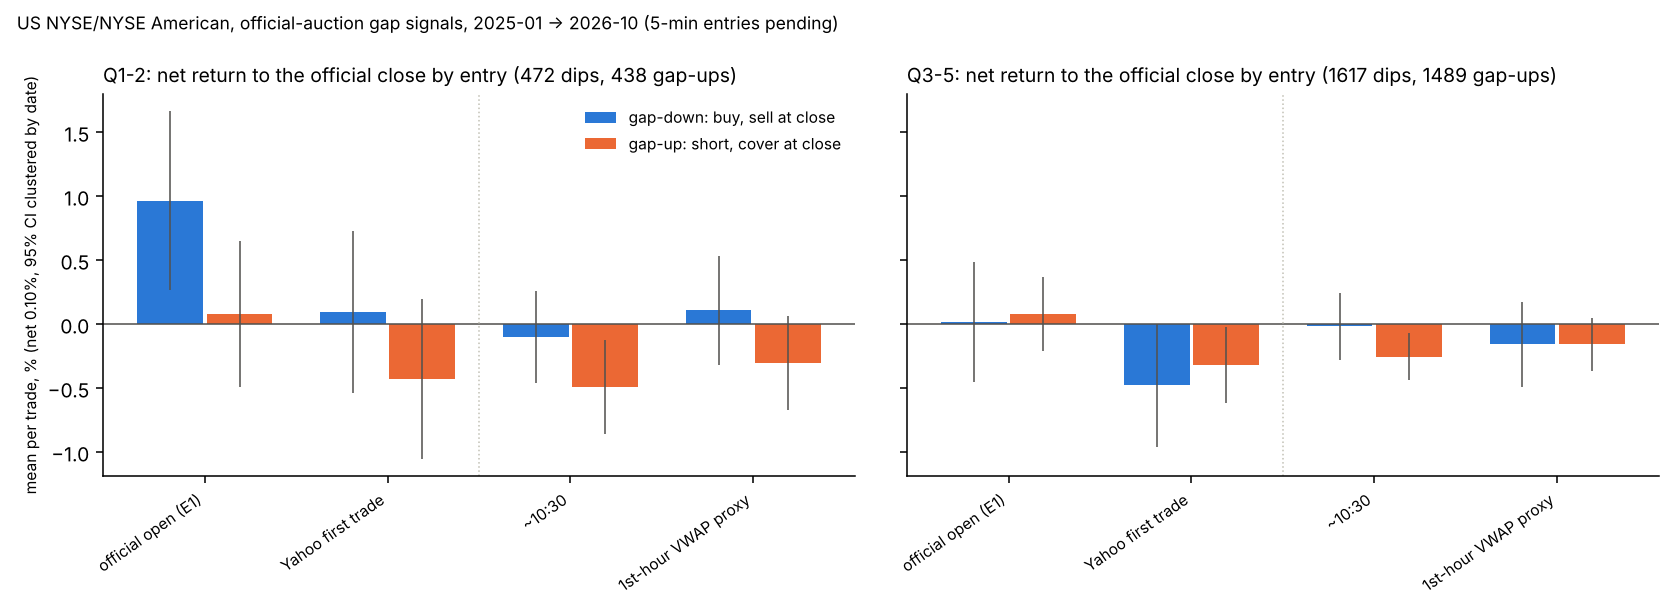
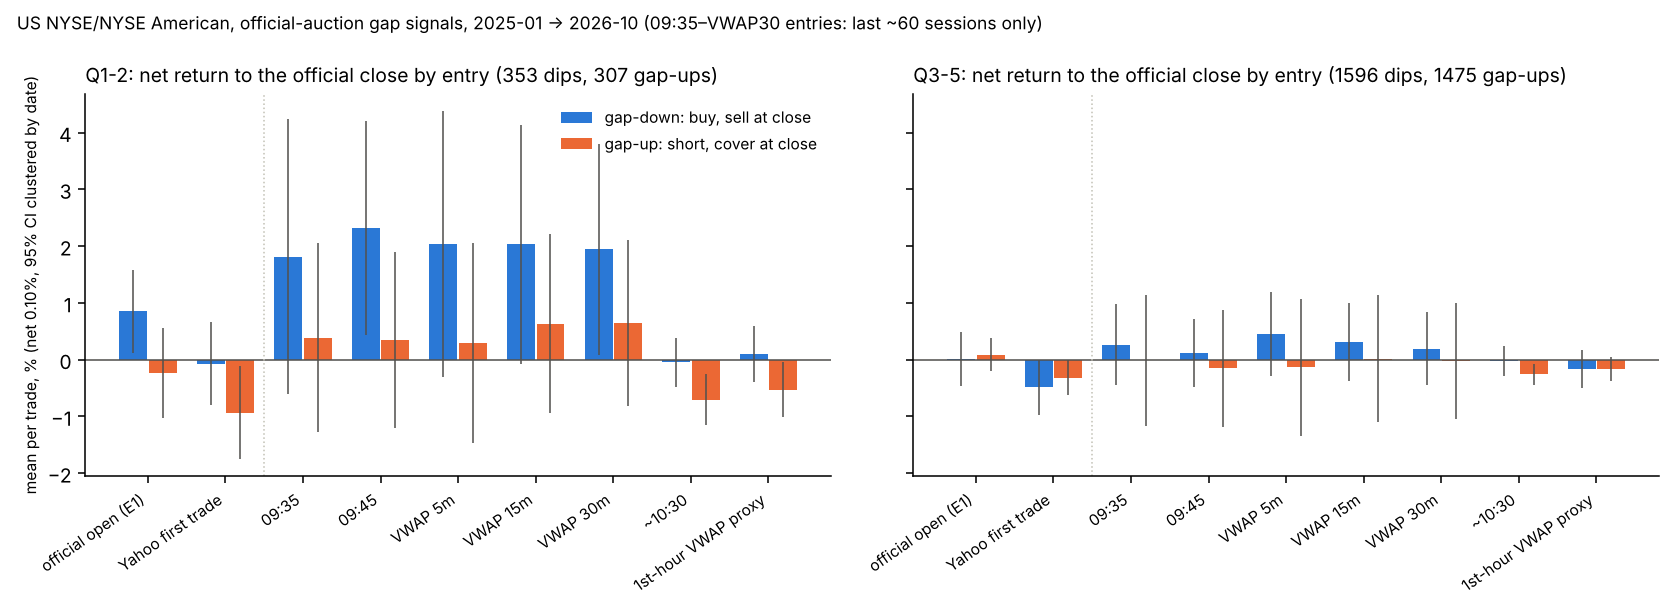
dipbuy: intraday entry test rerun with 5-minute entries (09:35, 09:45, VWAP 5/15/30)
Claude-Session: https://claude.ai/code/session_01S1P9e6W7AimuhaWQLPvxY3

diff --git a/experiments/run_dipbuy_intraday.py b/experiments/run_dipbuy_intraday.py
@@ -98,5 +98,5 @@ for ax, liq in zip(axes, ("Q1-2", "Q3-5")):
         ax.spines[sp].set_visible(False)
 axes[0].set_ylabel("mean per trade, % (net 0.10%, 95% CI clustered by date)", fontsize=8)
 axes[0].legend(frameon=False, fontsize=8)
-fig.suptitle(f"US NYSE/NYSE American, official-auction gap signals, {START[:7]} → 2026-10 (5-min entries pending)", fontsize=9, x=0.01, ha="left")
+fig.suptitle(f"US NYSE/NYSE American, official-auction gap signals, {START[:7]} → 2026-10 (09:35–VWAP30 entries: last ~60 sessions only)", fontsize=9, x=0.01, ha="left")
 fig.tight_layout(); fig.savefig(DOCS_DIR / f"intraday_entries_{START[:4]}.png"); print("chart written")
